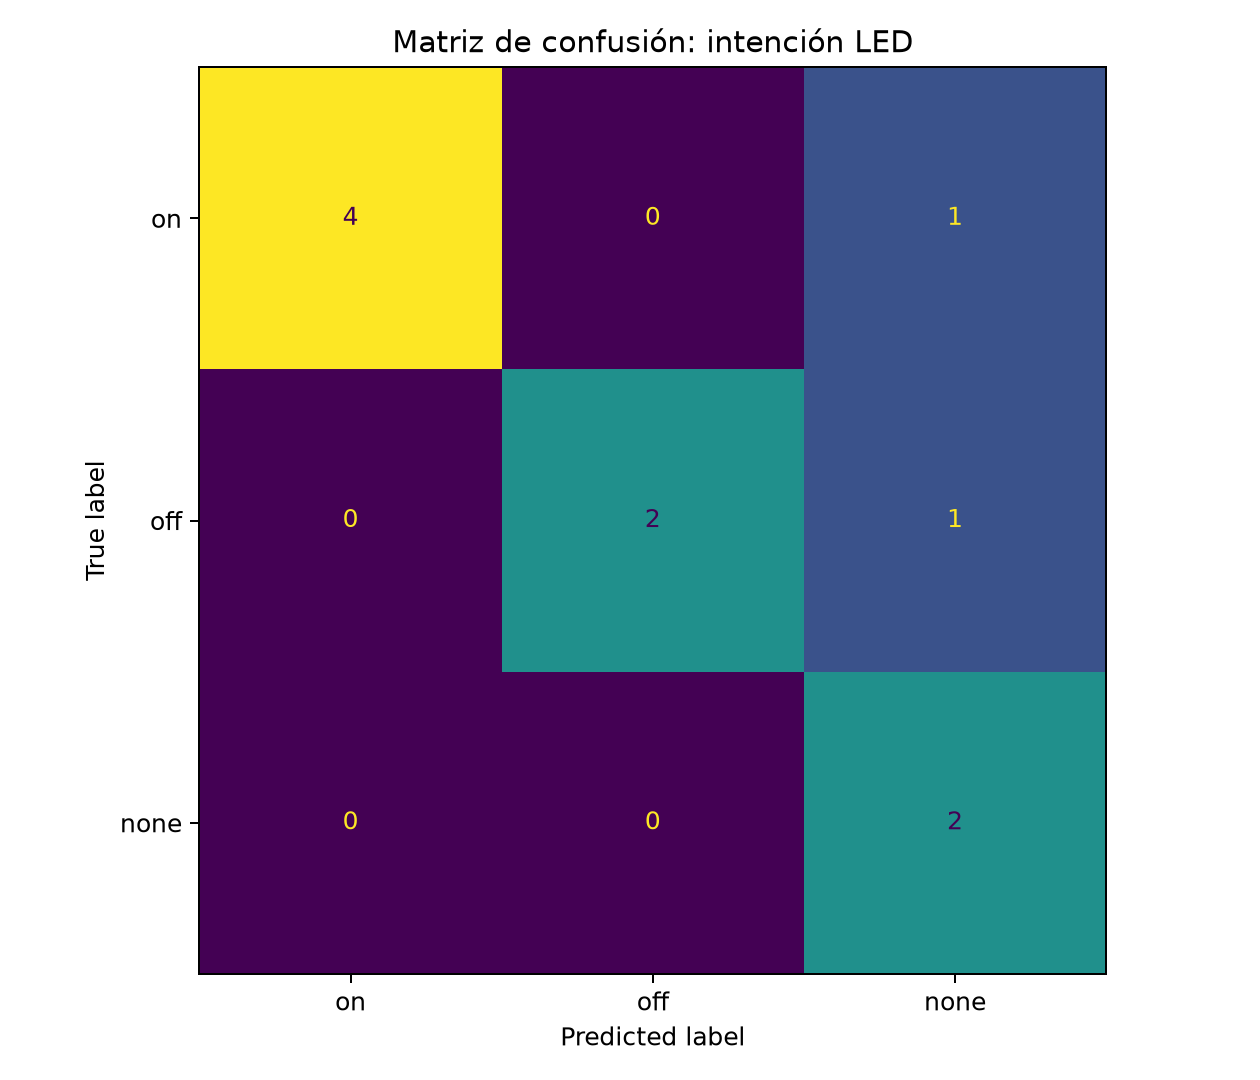
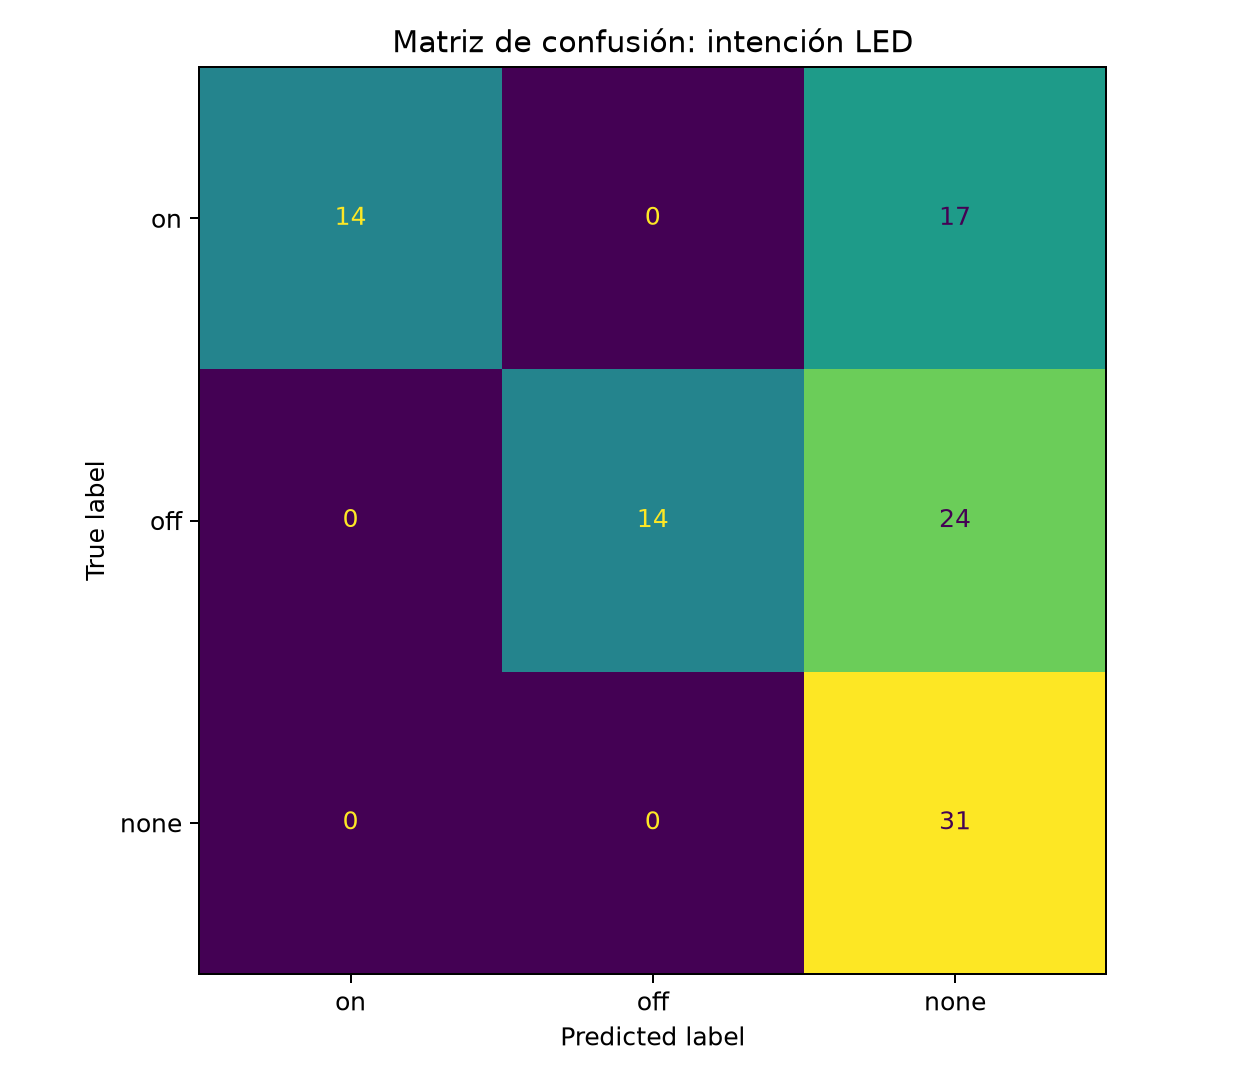
graficas

Changed region(s): [[0.619, 0.0611, 0.8976, 0.9167], [0.1548, 0.0611, 0.4024, 0.3667], [0.4952, 0.4583, 0.5262, 0.4889]]

diff --git a/evaluacion-arquitecturas-llm-mqtt.md b/evaluacion-arquitecturas-llm-mqtt.md
@@ -560,6 +560,8 @@ Las métricas de arquitectura evalúan el flujo técnico, no la calidad semánti
 
 Esto significa que el sistema fue exitoso si el modelo generó JSON válido, el backend lo validó y el comando fue publicado por MQTT.
 
+![Tokens latencia sscosto](assets/img/evaluacion/success_rates.png)
+
 ---
 
 ## 8. Métricas de latencia
@@ -610,6 +612,8 @@ output_tokens_per_s = eval_count / (eval_duration_ms / 1000)
 ```
 
 ![Tokens latencia costo](assets/img/evaluacion/tokens_vs_latency.png)
+
+![Tokens latenciaa costo](assets/img/evaluacion/latency_by_trial.png)
 
 ---
 
@@ -681,6 +685,7 @@ llm_action vs expected_action_dataset
 Evaluación supervisada:
 llm_action vs accion_correcta_supervisor
 ```
+![Ejemplo resumen](assets/img/evaluacion/resumen.png)
 
 ---
 